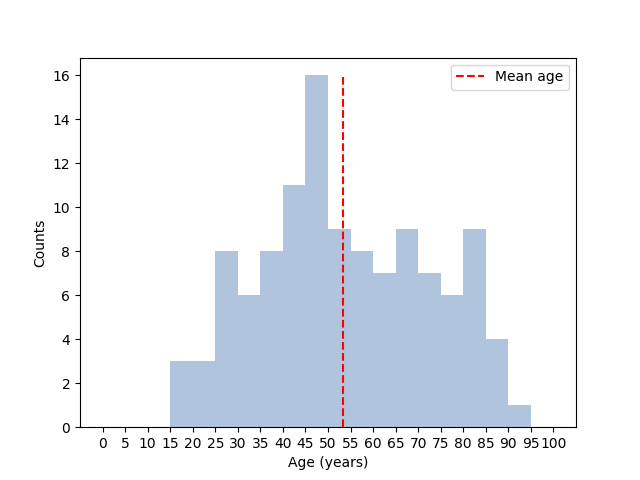
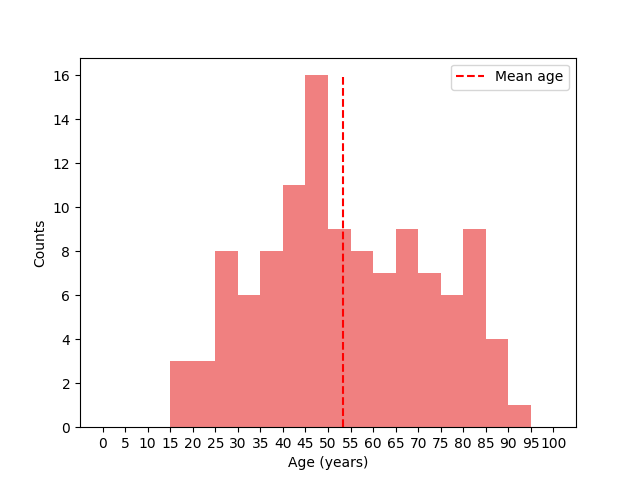
Visualizing data and summary stats

Changed region(s): [[0.25, 0.1562, 0.8438, 0.9062]]

diff --git a/summaryVisualz/visualizations.py b/summaryVisualz/visualizations.py
@@ -5,6 +5,9 @@ from bioinfokit.visuz import cluster
 import matplotlib.pyplot as plt
 from mpl_toolkits.mplot3d import Axes3D
 from prepData.dataLoader import LoadNumpyPickles
+from collections import defaultdict
+from sklearn.model_selection import train_test_split
+
 
 pickle_path = r"C:\Users\Albert Kjøller\Documents\GitHub\EEG_epilepsia"
 
@@ -16,13 +19,77 @@ ID_file = r"\ID_frame_clean.npy"   #ID_file = r"\ID_frame.npy"
 X, y, ID_frame = LoadNumpyPickles(pickle_path=pickle_path, X_file=X_file, y_file=y_file, ID_file=ID_file, DelNan = False)
 
 labels = ['eyem','chew','shiv','elpp','musc','null']
+count_labels = [np.unique(y[:,i],return_counts=True)[1][1] for i in range(len(labels))]
+ratio_labels = np.array(count_labels) / len(y)
+
+
+# Fining out how many of the files have multiple labels and how many labels these files have.
+multiple_labels = [np.sum(y[i,:]) for i in range(len(y))]
+multiple_labels_count = np.unique(multiple_labels, return_counts=True)
+
+# Initializing dictionaries for finding where we have multiple labels
+indices_2 = []
+mult_dict_2 = {'eyem':0, 'chew':0 ,'shiv':0, 'elpp':0, 'musc':0,'null':0}
+indices_3 = []
+mult_dict_3 = {'eyem':0, 'chew':0 ,'shiv':0, 'elpp':0, 'musc':0,'null':0}
+
+for i, y_single in enumerate(y):
+    pos = np.where(y_single == 1)[0]
+    if len(pos) == 2:
+        indices_2.append(i)
+        for pos_idx in pos:
+            mult_dict_2[labels[pos_idx]] += 1
+    if len(pos) > 2:
+        indices_3.append(i)
+        for pos_idx in pos:
+            mult_dict_3[labels[pos_idx]] += 1
+
+print("\n{:d} windows contain two different labels. These are distributed as follows: ".format(len(indices_2)) + str(mult_dict_2))
+
+print("\n{:d} windows contain three different labels. These are distributed as follows: ".format(len(indices_3)) + str(mult_dict_3))
+print("The labelling of the files holding three labels are seen below: \n" + str(y[indices_3]))
+
+
+# colors = "lightcoral" or "lightsteelblue" or lightslategrey"
+plt.bar(np.arange(len(labels)), ratio_labels, color="lightsteelblue", tick_label=labels)
+plt.show()
+print("Ratio of labels, following " + str(labels) + ": \t" + str(np.round(ratio_labels*100, 3)))
+
+
+
+
+# Choosing a subset of data (still stratified) to better visualize data points.
+n = 750 # But we will get a bit more since we use the ratio_labels that does not account for multilabelled points
+np.random.seed(20)
+sample_ratio = np.ceil(ratio_labels * n)
+X_for_viz = np.empty(( int(sum(sample_ratio)) , X.shape[1]))
+y_for_viz = np.empty(( int(sum(sample_ratio)) , y.shape[1]))
+
+sample_ratio_cum = 0
+for i in range(len(labels)):
+    singles = np.setdiff1d(np.arange(len(y)), indices_2)
+    pos = np.where(y[singles,i] == 1)[0]
+    np.random.shuffle(pos)
+    pos = pos[:int(sample_ratio[i])]
+    # pos_valid = [True if p not in indices_2 and i not in indices_3 else False for p in pos]
+
+    X_for_viz[sample_ratio_cum : (sample_ratio_cum + int(sample_ratio[i])), :] = X[pos, :]
+    y_for_viz[sample_ratio_cum : (sample_ratio_cum + int(sample_ratio[i])), :] = y[pos, :]
+
+    sample_ratio_cum += int(sample_ratio[i])
+
+randomize = np.arange(len(X_for_viz))
+np.random.shuffle(randomize)
+X_for_viz = X_for_viz[randomize]
+y_for_viz = y_for_viz[randomize]
+
 
 # Standardizing data and reformating target variable
-Xstd = StandardScaler().fit_transform(X)
-target = np.array([np.where(y[0]==1)[0][0] for i in y]).T
-target[:1000] = 1 # Just an example!
+Xmean, Xerr = np.mean(X_for_viz, axis=0), np.std(X_for_viz, axis=0)
+Xstd = (X_for_viz - Xmean) / Xerr
+target = np.array([np.where(y_single==1)[0][0] for y_single in y_for_viz]).T  # Not accounting for multiple labels here (due to plotting)
 
-pca = PCA(n_components = 3)
+pca = PCA(n_components = 20)
 
 print("Running PCA...")
 pca_out = pca.fit(Xstd)
@@ -31,19 +98,58 @@ loadings = pca_out.components_
 # Projecting data to PCA basis
 pca_scores = pca.fit_transform(Xstd)
 
+upsample_plot = False
+if upsample_plot == True:
+    label_to_up = 0
+    #Upsampling for visualization (only eyemovement)
+    from models.dataAugmentation import balance
+    Xnew, ynew = balance(X_for_viz, y_for_viz[:,label_to_up], 0.3, 0.05)
+    new_pos = np.where(ynew == 1)[0]
+    X_for_viz = np.concatenate((X_for_viz, Xnew[new_pos]))
+    Xup = (X_for_viz - Xmean) / Xerr
+
+    one = np.zeros(6)
+    one[label_to_up] = 1
+    y_up = np.array([list(one)] * len(new_pos))
+    y_for_viz = np.concatenate((y_for_viz, y_up))
+    target = np.array([np.where(y_single == 1)[0][0] for y_single in
+                       y_for_viz]).T  # Not accounting for multiple labels here (due to plotting)
+
+    pca_scores = pca.fit_transform(Xup)
 
 
-fig = plt.figure(1, figsize=(4, 3))
-ax = Axes3D(fig, rect=[0, 0, .95, 1], elev=48, azim=134)
-# Reorder the labels to have colors matching the cluster results
-ax.scatter(pca_scores[:, 0], pca_scores[:, 1], pca_scores[:, 2], c=target, cmap=plt.cm.rainbow,
-           edgecolor='k')
+colors = ["tab:red", "tab:blue", "tab:green", "darkslategrey", "m", "lightsteelblue"]
+transparency = [1] * len(labels)
+transparency[-1] = 0.3 # Blurrying the null-class
 
+fig = plt.figure(1, figsize=(8, 6))
+ax = Axes3D(fig, elev=-150, azim=110)
+for i in range(len(labels)-1, -1, -1):
+    ax.scatter(pca_scores[:,0][target==i], pca_scores[:,1][target==i], pca_scores[:,2][target==i], c = colors[i] ,s=50, label= labels[i], alpha=transparency[i])
+
+# ax.scatter(pca_scores[:, 0], pca_scores[:, 1], pca_scores[:, 2], c=target,
+ #          cmap=plt.cm.Set1, edgecolor='k', s=40, label=labels)
+ax.set_xlabel("1st eigenvector")
 ax.w_xaxis.set_ticklabels([])
+ax.set_ylabel("2nd eigenvector")
 ax.w_yaxis.set_ticklabels([])
+ax.set_zlabel("3rd eigenvector")
 ax.w_zaxis.set_ticklabels([])
 
+plt.legend()
 plt.show()
+
+#Adding null as last class
+for i in range(len(labels)-1, -1, -1):
+    plt.scatter(pca_scores[:,0][target==i], pca_scores[:,1][target==i], s=50, c=colors[i], label = labels[i], alpha=transparency[i])
+plt.xlabel('1st eigenvector')
+plt.ylabel('2nd eigenvector')
+plt.legend(loc=1)
+plt.show()
+
+print(np.unique(target, return_counts=True))
+
+print("Breakpoint for evaluation of PCA plot...")
 
 # Might be useful
 """

diff --git a/prepData/preproccesData.py b/prepData/preproccesData.py
@@ -34,7 +34,7 @@ def processRawData(data_path, save_path, file_selected, windowsOS=False):
 
         # initialize hierarchical dict
         proc_subject = subjects[subject_ID][edf]
-        proc_subject = readRawEdf(proc_subject, saveDir=save_dir, tWindow=1, tStep=1 * .25, # 75% temporalt overlap
+        proc_subject = readRawEdf(proc_subject, saveDir=save_dir, tWindow=60, tStep=60, # * .25, # 75% temporalt overlap
                                   read_raw_edf_param={'preload': True})  # ,
         # "stim_channel": ['EEG ROC-REF', 'EEG LOC-REF', 'EEG EKG1-REF',
         #                  'EEG T1-REF', 'EEG T2-REF', 'PHOTIC-REF', 'IBI',
@@ -146,8 +146,10 @@ if __name__ == '__main__':
 
     print("Breakpoint for evaluating metadata...")
 
+    # colors = "lightcoral" or "lightsteelblue" or lightslategrey"
+
     # Visualizing gender and age distribution
-    plt.hist(gender['male'], bins=20, color="cornflowerblue", range=(0,100))
+    plt.hist(gender['male'], bins=20, color="lightsteelblue", range=(0,100))
     plt.vlines(np.mean(gender['male']), 0, 16, linestyles='dashed',color='red')
     plt.xlabel("Age (years)")
     plt.ylabel("Counts")
@@ -156,7 +158,7 @@ if __name__ == '__main__':
     plt.show()
 
 
-    plt.hist(gender['female'], bins=20, color="lightsteelblue", range=(0,100))
+    plt.hist(gender['female'], bins=20, color="lightcoral", range=(0,100))
     plt.vlines(np.mean(gender['female']), 0, 16, linestyles='dashed',color='red')
     plt.xlabel("Age (years)")
     plt.ylabel("Counts")
@@ -165,7 +167,7 @@ if __name__ == '__main__':
     plt.show()
 
 
-    plt.hist(age, bins=20, color="slategrey", range=(0,100))
+    plt.hist(age, bins=20, color="lightslategrey", range=(0,100))
     plt.vlines(np.mean(age), 0, 30, linestyles='dashed',color='red')
     plt.xlabel("Age (years)")
     plt.ylabel("Counts")

diff --git a/models/dataAugmentation.py b/models/dataAugmentation.py
@@ -17,7 +17,8 @@ def balance(X, y, increase, reduce):
 
     from collections import Counter
     # what is the class balance?
-    balance_b = Counter(y)
+    balance_b = np.unique(y, return_counts=True)
+    #balance_b = Counter(y)
 
     #if necessary: pip install imbalanced-learn
     from imblearn.over_sampling import SMOTE
@@ -36,7 +37,9 @@ def balance(X, y, increase, reduce):
     X, y = pipeline.fit_resample(X, y)
 
     # how is the balance now?
-    balance_a = Counter(y)
+    #balance_a = Counter(y)
+    balance_a = np.unique(y, return_counts=True)
+
 
     print('Before:', balance_b)
     print('After: ', balance_a)
